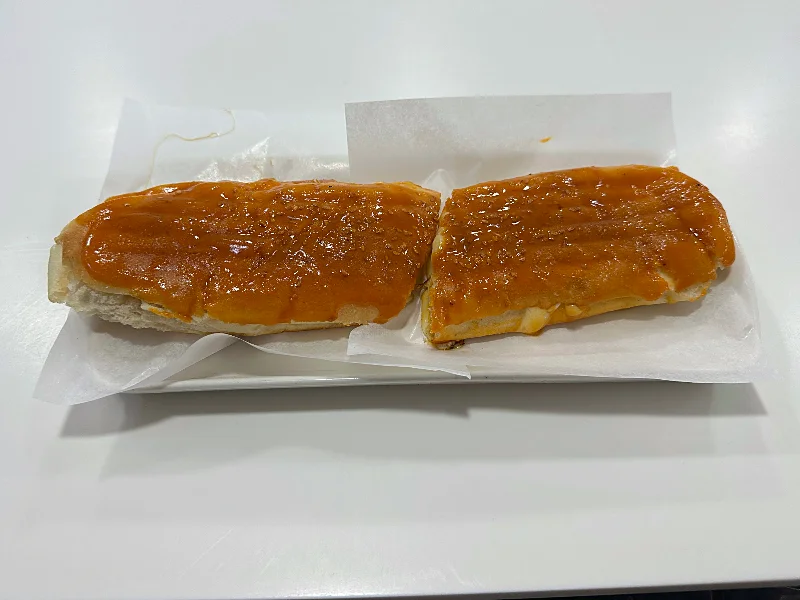
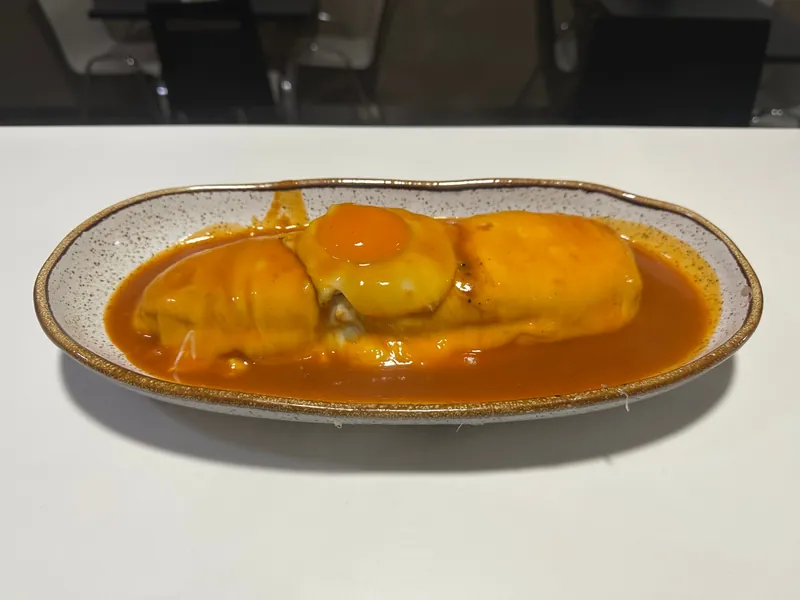
Fotos: Mini Prego de Vitela com Ovo, Hambúrguer de Picanha em Pão e Francesinha na Chapa
Fotos otimizadas com scripts/otimizar-imagens.py (800x600 WebP, sem dados
de localização) e imagens de partilha em img/og/. A foto antiga da
Francesinha na Chapa, que não estava ligada a nenhum prato, foi substituída.

diff --git a/js/menu.js b/js/menu.js
@@ -51,7 +51,10 @@ const FOTOS = {
   cheesecakeFrutos: RAIZ + "img/cheesecake-de-frutos-vermelhos-2.webp",
   asinhas: RAIZ + "img/asinhas-de-frango.webp",
   salsichasOvo: RAIZ + "img/2-salsichas-com-batata-e-ovo.webp",
-  hamburguerOvo: RAIZ + "img/hamburguer-com-ovo-e-batata.webp"
+  hamburguerOvo: RAIZ + "img/hamburguer-com-ovo-e-batata.webp",
+  miniPrego: RAIZ + "img/mini-prego-de-vitela-com-ovo.webp",
+  hamburguerPicanha: RAIZ + "img/hamburguer-de-picanha-em-pao.webp",
+  francesinhaChapa: RAIZ + "img/francesinha-na-chapa.webp"
 };
 
 /* ============ DADOS DO MENU (edita nomes, preços e descrições) ============ */
@@ -63,7 +66,7 @@ const MENU = {
     {nome:"Meia Francesinha Especial", desc:"Pão, bife de vitela, chouriço, fiambre, queijo, ketchup, mostarda, ovo e molho de francesinha. Com batata.", preco:8.75, foto:FOTOS.meiaEspecial},
     {nome:"Francesinha Especial de Frango", desc:"Pão, bife de frango, chouriço, fiambre, queijo, ketchup, mostarda, ovo e molho de francesinha. Com batata.", preco:10.5, foto:FOTOS.especial},
     {nome:"Francesinha Especial de Camarão", desc:"Pão, bife de vitela, camarão, chouriço, fiambre, queijo, ketchup, mostarda, ovo e molho de francesinha. Com batata.", preco:15.5},
-    {nome:"Francesinha na Chapa", desc:"Pão, bife de vitela, fiambre, queijo, ovo e molho de francesinha. Com batata.", preco:11.75},
+    {nome:"Francesinha na Chapa", desc:"Pão, bife de vitela, fiambre, queijo, ovo e molho de francesinha. Com batata.", preco:11.75, foto:FOTOS.francesinhaChapa},
     {nome:"Francesinha em Pão", desc:"Pão barrado com molho de francesinha, chouriço, ketchup, mostarda, queijo e fiambre.", preco:4.75, foto:FOTOS.francesinhaPao}
   ],
   "Pregos": [
@@ -84,7 +87,7 @@ const MENU = {
   "Hambúrgueres": [
     {nome:"Hambúrguer em Pão", desc:"Pão, hambúrguer, alface, tomate, queijo, fiambre, ovo, ketchup e mostarda.", preco:5.75, foto:FOTOS.hamburguerPao},
     {nome:"Hambúrguer Especial", desc:"Pão, hambúrguer, fiambre, queijo, alface, tomate, ovo, ketchup, mostarda e molho de francesinha. Com batata.", preco:11.5, foto:FOTOS.hamburguerEspecial},
-    {nome:"Hambúrguer de Picanha em Pão", desc:"Pão, hambúrguer, fiambre, queijo cheddar, alface, tomate, bacon e molho Big Burger. Com batata.", preco:10.5}
+    {nome:"Hambúrguer de Picanha em Pão", desc:"Pão, hambúrguer, fiambre, queijo cheddar, alface, tomate, bacon e molho Big Burger. Com batata.", preco:10.5, foto:FOTOS.hamburguerPicanha}
   ],
   "Baguetes": [
     {nome:"Prego em Baguete c/ Ovo", desc:"Baguete, bife de vitela, fiambre, queijo e ovo.", preco:9.5},
@@ -121,7 +124,7 @@ const MENU = {
     {nome:"Bolinhos de Bacalhau", desc:"6 bolinhos de bacalhau.", preco:4.8}
   ],
   "Menu Infantil": [
-    {nome:"Mini Prego de Vitela com Ovo", desc:"Mini prego de vitela com ovo.", preco:8.75},
+    {nome:"Mini Prego de Vitela com Ovo", desc:"Mini prego de vitela com ovo.", preco:8.75, foto:FOTOS.miniPrego},
     {nome:"Bife de Frango com Batata", desc:"Bife de frango com batata.", preco:5.5},
     {nome:"2 Salsichas com Batata e Ovo", desc:"Duas salsichas com batata e ovo.", preco:4.5, foto:FOTOS.salsichasOvo},
     {nome:"Hambúrguer com Ovo e Batata", desc:"Hambúrguer com ovo e batata.", preco:4.75, foto:FOTOS.hamburguerOvo}

diff --git a/index.html b/index.html
@@ -29,8 +29,8 @@
 <link rel="preload" as="font" type="font/woff2" href="/fonts/barlow-500-latin.woff2" crossorigin>
 <link rel="preload" as="font" type="font/woff2" href="/fonts/barlow-600-latin.woff2" crossorigin>
 <link rel="preload" as="font" type="font/woff2" href="/fonts/barlow-condensed-600-latin.woff2" crossorigin>
-<link rel="stylesheet" href="/css/estilo.css?v=8144bc34">
-<meta name="versao" content="8144bc34">
+<link rel="stylesheet" href="/css/estilo.css?v=95c600c3">
+<meta name="versao" content="95c600c3">
 <script>document.documentElement.classList.add("js");if(!(navigator.serviceWorker&&navigator.serviceWorker.controller)){[["/img/hero.webp","(min-width:821px)"],["/img/hero-v-francesinha-especial.webp","(max-width:820px)"]].forEach(function(x){var k=document.createElement("link");k.rel="preload";k.as="image";k.href=x[0];k.media=x[1];k.setAttribute("fetchpriority","high");document.head.appendChild(k)})}setTimeout(function(){document.documentElement.classList.add("pronto")},1500);try{var l=(localStorage.getItem("idioma")||navigator.language||"pt").slice(0,2).toLowerCase();if(/^(en|fr|de|es)$/.test(l)){var k=document.createElement("link");k.rel="preload";k.as="script";k.href="/js/traducoes.js?v="+document.querySelector("meta[name=versao]").content;document.head.appendChild(k)}}catch(e){}</script>
 </head>
 <body>
@@ -245,13 +245,13 @@
 </footer>
 
 
-<script defer src="/js/idiomas.js?v=8144bc34"></script>
-<script defer src="/js/menu.js?v=8144bc34"></script>
-<script defer src="/js/cafe.js?v=8144bc34"></script>
-<script defer src="/js/ui-base.js?v=8144bc34"></script>
-<script defer src="/js/ui-menu.js?v=8144bc34"></script>
-<script defer src="/js/ui-pedido.js?v=8144bc34"></script>
-<script defer src="/js/ui-pesquisa.js?v=8144bc34"></script>
-<script defer src="/js/ui-topo.js?v=8144bc34"></script>
+<script defer src="/js/idiomas.js?v=95c600c3"></script>
+<script defer src="/js/menu.js?v=95c600c3"></script>
+<script defer src="/js/cafe.js?v=95c600c3"></script>
+<script defer src="/js/ui-base.js?v=95c600c3"></script>
+<script defer src="/js/ui-menu.js?v=95c600c3"></script>
+<script defer src="/js/ui-pedido.js?v=95c600c3"></script>
+<script defer src="/js/ui-pesquisa.js?v=95c600c3"></script>
+<script defer src="/js/ui-topo.js?v=95c600c3"></script>
 </body>
 </html>

diff --git a/sw.js b/sw.js
@@ -4,7 +4,7 @@
    - Código (js e css): tenta a rede primeiro, com a cópia guardada como reserva.
    - Fotos, ícones e letras: usa a cópia guardada e atualiza-a quando houver rede.
    O número em VERSAO é escrito sozinho por scripts/gerar-dados.py (muda sempre que o código muda). */
-const VERSAO = "cafe-principe-8144bc34";
+const VERSAO = "cafe-principe-95c600c3";
 const INICIO = new URL("/", self.location.origin).href;
 const PRE = ["/", "/css/estilo.css", "/js/idiomas.js", "/js/traducoes.js", "/js/menu.js", "/js/cafe.js", "/js/ui-base.js", "/js/ui-menu.js", "/js/ui-pedido.js", "/js/ui-pesquisa.js", "/js/ui-topo.js", "/favicon.svg", "/apple-touch-icon.png", "/img/francesinha-especial.webp"].map(u => new URL(u, INICIO).href);
 
